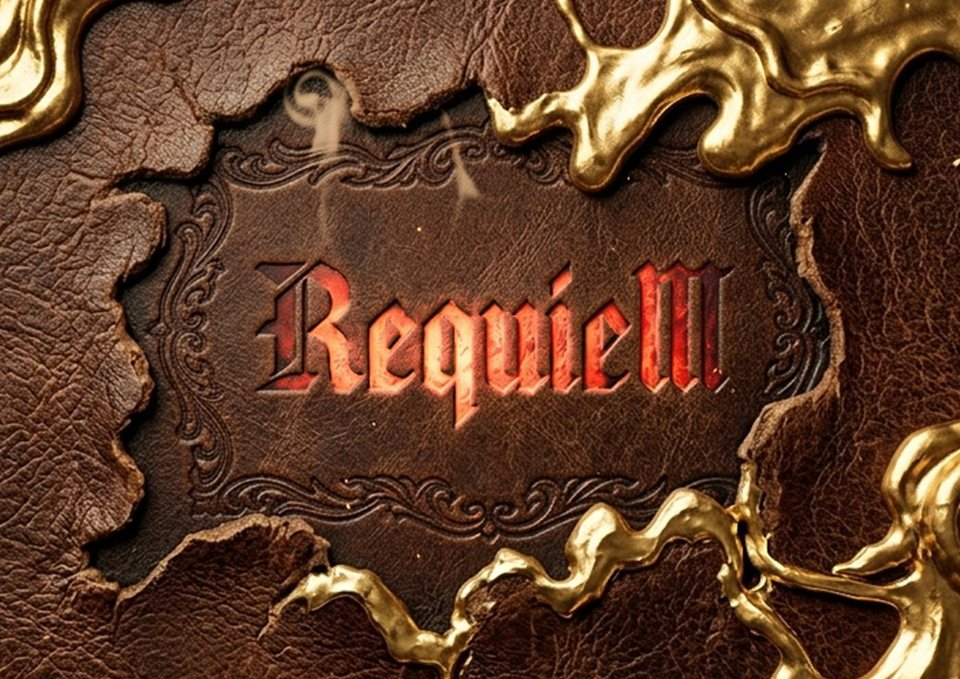
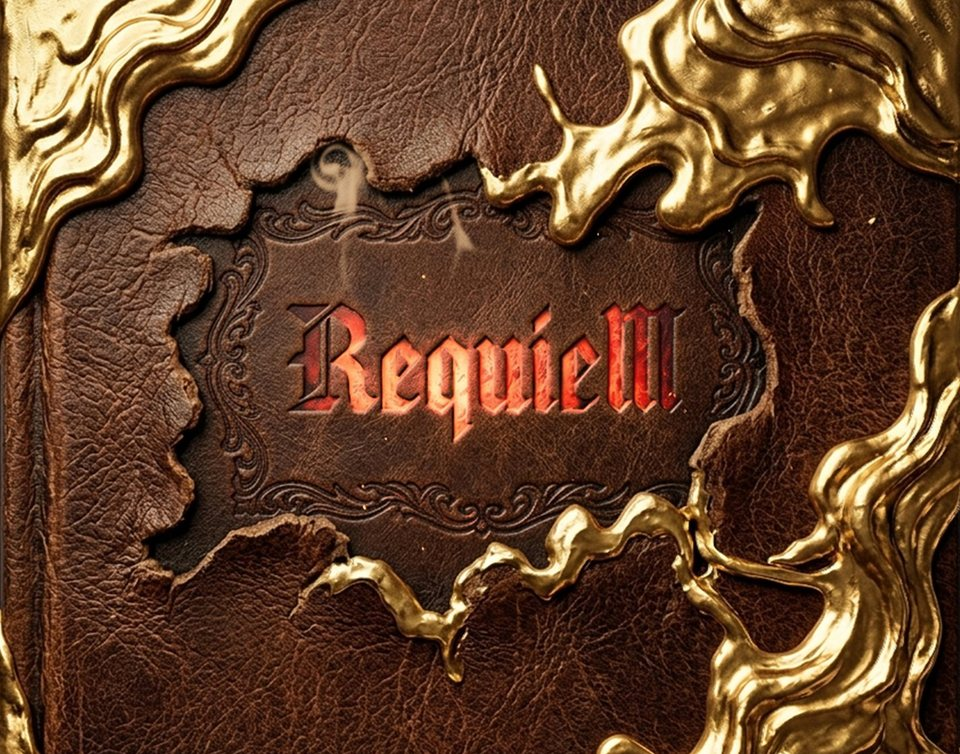
Update headlines, widen cover crop
Claude-Session: https://claude.ai/code/session_0125UGnamC7oMJDsrMrMC8zL

diff --git a/assets/style.css b/assets/style.css
@@ -1,3 +1,4 @@
 :root{--ink:#202521;--muted:#777c73;--paper:#f4f1e9;--gold:#ac9466;--line:#dcdcd0;--red:#853b36}*{box-sizing:border-box}body{margin:0;background:var(--paper);color:var(--ink);font-family:'Helvetica Neue','Hiragino Kaku Gothic ProN','Yu Gothic',Meiryo,sans-serif;-webkit-font-smoothing:antialiased}button,a{-webkit-tap-highlight-color:transparent}button{font:inherit;cursor:pointer}button:focus-visible,a:focus-visible,summary:focus-visible{outline:3px solid #aa773f;outline-offset:5px}button:disabled{cursor:default;opacity:.38}a{color:inherit}.layout{display:grid;grid-template-columns:40% 60%;min-height:100svh}.story{background:radial-gradient(120% 80% at 50% 35%,#2a1c15 0%,#150f0c 70%);color:#ece9dc;padding:45px 50px 28px;display:flex;flex-direction:column;position:relative;overflow:hidden}.story:before{content:'';position:absolute;inset:14px;border:1px solid #c9a24f33;pointer-events:none}.brand{font-family:Georgia,'Times New Roman',serif;font-size:29px;letter-spacing:5px;text-decoration:none;z-index:1;width:max-content}.brand span{color:#c9a24f;letter-spacing:1px}.brand small{display:block;font:8px Arial,sans-serif;letter-spacing:4px;margin-top:9px;color:#a7aaa1}.story-center{margin:auto 0;padding:32px 0 46px}.cover-title{width:calc(100% + 60px);max-width:520px;margin:-10px -30px 26px;position:relative}.cover-title img{display:block;width:100%;height:auto;-webkit-mask-image:radial-gradient(ellipse closest-side at 50% 47%,#000 22%,rgba(0,0,0,.72) 48%,rgba(0,0,0,.3) 74%,transparent 100%);mask-image:radial-gradient(ellipse closest-side at 50% 47%,#000 22%,rgba(0,0,0,.72) 48%,rgba(0,0,0,.3) 74%,transparent 100%);filter:saturate(1.05) contrast(1.05)}.cover-title:after{content:'';position:absolute;left:30%;right:30%;top:33%;bottom:45%;background:radial-gradient(closest-side,#ff5a2a33,transparent);mix-blend-mode:screen;pointer-events:none;animation:ember 4s ease-in-out infinite}@keyframes ember{0%,100%{opacity:.5}50%{opacity:1}}.overline{font-size:9px;letter-spacing:3px;color:#c9a24f;margin:0 0 23px}h1{font-family:'Yu Mincho','Hiragino Mincho ProN',serif;font-weight:400;font-size:clamp(28px,3vw,43px);line-height:1.8;letter-spacing:.09em;margin:0}.story-description{font-size:12px;line-height:2.2;letter-spacing:.12em;color:#a4aaa0;margin:22px 0 0}.story-bottom{display:flex;justify-content:space-between;color:#8b9186;font-size:8px;letter-spacing:1.3px;gap:10px}main{padding:38px clamp(28px,5.4vw,88px) 23px;display:flex;flex-direction:column;min-width:0}.topbar{display:flex;align-items:center;justify-content:space-between;border-bottom:1px solid var(--line);padding-bottom:19px;font-size:10px;letter-spacing:2px;color:#72796e}.edition{font-size:10px;letter-spacing:1px;border:1px solid #c8ccbe;border-radius:2px;padding:4px 8px}#app{width:100%;max-width:650px;margin:auto;outline:none;padding:48px 0}footer{display:flex;justify-content:space-between;border-top:1px solid var(--line);padding-top:18px;gap:10px;font-size:9px;color:#818579;letter-spacing:.08em}footer span:first-child{font-family:Georgia;letter-spacing:2px}.eyebrow{color:var(--red);font-size:10px;font-weight:600;letter-spacing:2px;margin:0 0 22px}.intro h2,.result h2{font-family:'Yu Mincho','Hiragino Mincho ProN',serif;font-size:clamp(30px,3.1vw,42px);font-weight:400;letter-spacing:.04em;line-height:1.7;margin:0 0 22px}.lead{font-size:13px;line-height:2.15;color:#666e62;margin-bottom:30px}.facts{display:flex;border-top:1px solid var(--line);border-bottom:1px solid var(--line);padding:19px 0;margin:0 0 32px;gap:0}.fact{padding:0 26px;border-right:1px solid var(--line)}.fact:first-child{padding-left:0}.fact:last-child{border:0}.fact strong{font:25px Georgia;margin-right:5px}.fact span{font-size:11px}.fact small{display:block;color:var(--muted);font-size:9px;margin-top:6px;letter-spacing:.08em}.primary{background:var(--ink);color:#f6f2e8;border:1px solid var(--ink);padding:18px 22px;width:100%;display:flex;align-items:center;justify-content:space-between;font-size:13px;letter-spacing:.08em;min-height:56px;transition:background .2s}.primary:hover:not(:disabled){background:#3a4639}.arrow{font-size:20px;font-weight:300;line-height:1}.note{font-size:10px;line-height:1.9;color:#7c8177;margin:18px 0 0}.progress-meta{display:flex;justify-content:space-between;font-size:10px;letter-spacing:2px;color:#6e776a;margin-bottom:11px}.progress-meta strong{font-family:Georgia;font-size:18px;font-weight:400;color:var(--ink)}.progress{display:flex;gap:5px;margin-bottom:32px}.progress i{display:block;flex:1;height:2px;background:#d8dccf}.progress i.done{background:var(--gold)}.question h2{font-family:'Yu Mincho','Hiragino Mincho ProN',serif;font-size:clamp(24px,2.4vw,31px);line-height:1.75;font-weight:400;margin:0 0 10px;letter-spacing:.02em;white-space:pre-line}.hint{font-size:11px;color:#7a8175;margin:0 0 26px;line-height:1.8}.options{display:grid;gap:10px;border:0;padding:0;margin:0}.option{display:flex;align-items:center;text-align:left;width:100%;gap:15px;background:transparent;border:1px solid #d2d5c8;padding:17px 18px;min-height:66px;transition:background .15s,border-color .15s;color:var(--ink);font-size:12px;line-height:1.8}.option:hover{background:#ecece1;border-color:#a8b29e}.option[aria-pressed=true]{border-color:#61755a;background:#e8ecdf}.option .letter{font:13px Georgia;color:#87917e}.option .check{margin-left:auto;flex-shrink:0;width:17px;height:17px;border:1px solid #b6bcac;border-radius:50%}.option[aria-pressed=true] .check{background:#61755a;border-color:#61755a;position:relative}.option[aria-pressed=true] .check:after{content:'';position:absolute;width:7px;height:3px;border-bottom:1px solid white;border-left:1px solid white;transform:rotate(-45deg);left:4px;top:5px}.navigation{display:grid;grid-template-columns:90px 1fr;gap:22px;margin-top:28px;align-items:center}.back{background:none;border:0;color:#737b6e;text-align:left;font-size:11px;padding:14px 0}.navigation .primary{padding:15px 20px;min-height:52px}.result .eyebrow{margin-bottom:12px}.result h2{font-size:27px;margin-bottom:23px}.character-card{border:1px solid #b4b799;position:relative;padding:30px 28px;background:linear-gradient(135deg,#eeeee1,#f9f6ec)}.character-card:before{content:'✦';font-size:32px;color:#ad9869;position:absolute;right:24px;top:23px}.character-number{font:10px Georgia;letter-spacing:2px;color:#86866e;margin:0 0 22px}.character-word{font-family:'Yu Mincho',serif;font-size:14px;color:#73795f;letter-spacing:.12em;margin:0 0 9px}.character-name{font-family:'Yu Mincho',serif;font-size:clamp(26px,3vw,38px);font-weight:400;margin:0 0 6px;line-height:1.6}.character-latin{font-size:9px;color:#8d8c72;letter-spacing:3px;margin:0 0 20px}.tags{display:flex;flex-wrap:wrap;gap:6px;margin-bottom:18px}.tag{font-size:10px;border:1px solid #cdd0bb;padding:5px 10px;color:#6b745e}.description{font-size:12px;line-height:2;margin:0}.reasons{margin:25px 0}.reasons h3{font-size:11px;letter-spacing:.1em;font-weight:500;color:#6c755f;margin:0 0 12px}.reasons p{font-size:11px;line-height:2;margin:6px 0;padding-left:15px;border-left:2px solid #b6bc9d}.secondary{border:1px solid #bbc1b1;background:transparent;font-size:11px;padding:14px 20px;width:100%;color:#59634f;margin-top:10px;min-height:46px}.secondary:hover{background:#e7eadd}.copy-status{font-size:11px;line-height:1.8;color:#67735b;margin:10px 0 0;min-height:20px}.other{margin:24px 0;border-top:1px solid var(--line);border-bottom:1px solid var(--line);padding:16px 0}.other summary{font-size:11px;color:#67715b;cursor:pointer}.other p{font-size:12px;margin:16px 0 0;line-height:2}.other p small{display:block;font-size:10px;color:#7b8171}.tie{font-size:11px;line-height:2;color:#666f5e;background:#e9ecdf;padding:15px;margin:16px 0}.copy-fallback{width:100%;background:#fffaf0;border:1px solid var(--line);font-size:12px;line-height:1.8;padding:12px;margin-top:10px;color:var(--ink);resize:vertical}.sr-only{position:absolute;width:1px;height:1px;padding:0;margin:-1px;overflow:hidden;clip:rect(0,0,0,0);white-space:nowrap;border:0}@media(min-width:1500px){.story{padding-left:70px;padding-right:70px}main{padding-left:100px;padding-right:100px}}@media(max-width:800px){.layout{grid-template-columns:34% 66%}.story{padding:32px 25px}.brand{font-size:23px;letter-spacing:3px}.cover-title{max-width:100%}h1{font-size:25px}.story-bottom{font-size:6px;flex-direction:column}.overline{font-size:7px;letter-spacing:1.5px}main{padding:30px 30px 22px}.fact{padding:0 18px}}@media(max-width:600px){.layout{display:block}.story{padding:25px 26px 27px}.story:before{inset:9px}.brand{font-size:22px;letter-spacing:4px}.brand small{font-size:6px;letter-spacing:3px;margin-top:6px}.story-center{padding:0;margin:24px 0 0;position:relative}.cover-title{width:calc(100% + 40px);max-width:400px;margin:-14px -20px 4px}.story-center .overline{font-size:7px;margin-bottom:12px;letter-spacing:2px}h1{font-size:25px;line-height:1.7;letter-spacing:.07em}h1 br:nth-child(2){display:none}.story-description{font-size:11px;line-height:2;margin-top:12px}.story-bottom{display:none}main{padding:22px 25px;min-height:calc(100svh - 220px)}.topbar{font-size:8px;padding-bottom:13px}.edition{font-size:8px}#app{padding:32px 0;max-width:500px}.intro h2{font-size:31px}.lead{font-size:12px}.facts{margin-bottom:26px}.fact{padding:0 23px}.fact strong{font-size:24px}.fact small{font-size:8px}.question h2{font-size:25px}.progress{margin-bottom:24px}.option{padding:14px 15px;min-height:64px;font-size:12px;gap:12px}.navigation{margin-top:23px;gap:16px}.character-card{padding:27px 22px}.character-name{font-size:30px}footer{font-size:8px}.result h2{font-size:25px}}@media(prefers-reduced-motion:no-preference){#app>section{animation:appear .25s ease-out}@keyframes appear{from{opacity:0;transform:translateY(6px)}to{opacity:1;transform:translateY(0)}}}
 .link-button{text-decoration:none}.field-label{display:block;font-size:11px;color:#69735e;margin:0 0 10px;line-height:1.8}.text-input{width:100%;font:inherit;font-size:13px;background:#fcfaf3;color:var(--ink);border:1px solid #c9d0bf;padding:15px 16px;margin-bottom:18px;border-radius:0;min-height:48px}.text-input:focus{outline:2px solid #9aa584;outline-offset:2px}.error{font-size:12px;line-height:1.9;color:#8b3833;background:#f6e7e1;border-left:2px solid #a0564c;padding:12px 15px}.submitted-mark{font:24px Georgia;color:#748564;border:1px solid #a6b293;width:57px;height:57px;border-radius:50%;display:grid;place-items:center;margin-bottom:24px}.question:focus{outline:none}.gm-heading{font-family:'Yu Mincho','Hiragino Mincho ProN',serif;font-size:32px;font-weight:400;line-height:1.8;margin:0 0 22px}.gm-home .lead{font-size:12px}.room-list{margin-top:35px}.room-list h3,.gm-settings h3,.results-header h3{font-size:12px;font-weight:500;letter-spacing:.05em}.room-item{display:flex;justify-content:space-between;align-items:center;gap:15px;width:100%;padding:20px 0;text-align:left;background:none;border:0;border-bottom:1px solid var(--line);color:var(--ink);font-size:13px}.room-item small{font-size:10px;color:#758068;flex-shrink:0}.gm-title-row{display:flex;justify-content:space-between;gap:20px;align-items:center}.gm-title-row h2{font-size:28px;word-break:break-word}.gm-title-row .eyebrow{margin:15px 0 6px}.count{font:36px Georgia;color:#68735b;white-space:nowrap}.count small{font-size:14px;color:#8d947f}.share-box{background:#e9ecdf;border:1px solid #d2d9c5;padding:20px;margin-bottom:25px}.share-box .text-input{font-size:11px;margin-bottom:0}.share-box .secondary{margin-top:9px}.share-box .note{margin-top:12px}.results-header{display:flex;align-items:center;justify-content:space-between;gap:15px}.empty-results{border-top:1px solid var(--line);border-bottom:1px solid var(--line);padding:37px 15px;text-align:center;color:#7b836f;font-size:14px}.empty-results small{display:block;margin-top:12px;font-size:10px}.animal-row{padding:19px 0;border-top:1px solid var(--line);display:flex;align-items:center;justify-content:space-between;gap:16px}.animal-row:last-child{border-bottom:1px solid var(--line)}.player-name{font-size:12px;word-break:break-word}.animal-pair{display:flex;gap:9px;flex-shrink:0}.animal{font-family:'Yu Mincho',serif;font-size:18px;display:grid;place-items:center;min-width:92px;background:#e8ecdf;border:1px solid #d0d7c4;padding:14px 10px;white-space:nowrap}.update-status{font-size:9px;margin:10px 0 25px;text-align:right}.gm-settings{margin-top:28px;border-top:1px solid var(--line);padding-top:20px}.gm-settings summary{font-size:11px;color:#748066;cursor:pointer}.gm-settings h3{margin:25px 0 12px}.gm-settings .note{margin-top:12px}.rules-scroll{overflow-x:auto}.rules-table{width:100%;border-collapse:collapse;font-size:10px;margin:18px 0;white-space:nowrap}.rules-table th{font-weight:400;text-align:left;padding:12px 8px;border-bottom:1px solid var(--line);color:#67725d}.rules-table td{text-align:center;border-bottom:1px solid var(--line);padding:10px}.rules-table input,.toggle-line input{accent-color:#61755a;width:16px;height:16px;cursor:pointer}.toggle-line{font-size:11px;display:flex;align-items:center;gap:10px;line-height:1.8;margin:15px 0}.gm-room>.back{margin-bottom:8px}.gm-room .copy-status{margin-top:15px}@media(max-width:600px){.animal{min-width:73px;font-size:16px;padding:12px 8px}.animal-pair{gap:6px}.animal-row{gap:12px}.share-box{padding:16px}.gm-heading{font-size:29px}.rules-table th{padding:12px 5px}.rules-table td{padding:10px 5px}.progress-meta{font-size:8px;letter-spacing:1px}.count{font-size:30px}}
 @media(prefers-reduced-motion:reduce){.cover-title:after{animation:none}}
+.intro h2 br.sp{display:none}@media(max-width:600px){.intro h2 br.sp{display:inline}}

diff --git a/assets/app.js b/assets/app.js
@@ -32,8 +32,8 @@
 
   // ── 共通レイアウト（shell.tsx） ──
   document.body.insertAdjacentHTML('afterbegin',
-    '<div class="layout"><aside class="story"><a class="brand" href="./">REQUIE<span>Ⅲ</span><small>MURDER MYSTERY</small></a><div class="story-center"><div class="cover-title" aria-hidden="true"><img src="assets/cover-title.jpg" alt="" width="960" height="679"/></div>' +
-    '<p class="overline">' + (gm ? 'BEHIND THE STORY' : 'FIND YOUR CHARACTER') + '</p><h1>' + (gm ? '七人の選択を、<br/>物語の始まりへ。' : 'これからあなたが<br/>被る仮面は？') + '</h1><p class="story-description">' + (gm ? '七人の人物。七つの視点。<br/>物語を始める、その前に。' : '本当のあなたを知る10の質問<br/>おすすめの仮面を選びます') + '</p></div><div class="story-bottom"><span>REQUIEM · CHARACTER CASTING</span><span>01 — 07</span></div></aside>' +
+    '<div class="layout"><aside class="story"><a class="brand" href="./">REQUIE<span>Ⅲ</span><small>MURDER MYSTERY</small></a><div class="story-center"><div class="cover-title" aria-hidden="true"><img src="assets/cover-title.jpg" alt="" width="960" height="754"/></div>' +
+    '<p class="overline">' + (gm ? 'BEHIND THE STORY' : 'FIND YOUR CHARACTER') + '</p><h1>' + (gm ? '七人の選択を、<br/>物語の始まりへ。' : 'あなたが着けるべき<br/>仮面は…') + '</h1><p class="story-description">' + (gm ? '七人の人物。七つの視点。<br/>物語を始める、その前に。' : '本当のあなたを知るための<br/>10の質問') + '</p></div><div class="story-bottom"><span>REQUIEM · CHARACTER CASTING</span><span>01 — 07</span></div></aside>' +
     '<main><header class="topbar"><span>' + (gm ? 'GAME MASTER' : 'CHARACTER MATCH') + '</span><span class="edition">試作版</span></header><div id="app"></div><footer><span>REQUIEⅢ</span><span>結果はGMにだけ表示されます</span></footer></main></div>');
   var app = $('app');
 
@@ -43,7 +43,7 @@
 
   // ── トップ（page.tsx） ──
   function home() {
-    app.innerHTML = '<section class="intro"><p class="eyebrow">CASTING YOUR STORY</p><h2>この物語で、<br/>あなたは誰になる。</h2><p class="lead">10の質問から、おすすめの役を見つけます。<br/>回答後、結果はGMだけが確認できます。</p><div class="facts"><div class="fact"><strong>10</strong><span>問</span><small>QUESTIONS</small></div><div class="fact"><strong>約3</strong><span>分</span><small>TIME</small></div><div class="fact"><strong>7</strong><span>人</span><small>PLAYERS</small></div></div><p class="lead">参加する方は、GMから届いた<br/>専用の回答用URLを開いてください。</p><a class="primary link-button" href="gm.html">GMとして卓を作成する<span aria-hidden="true">→</span></a><p class="note">プレイヤー画面には、おすすめの役や判定基準は表示されません。</p></section>';
+    app.innerHTML = '<section class="intro"><p class="eyebrow">CASTING YOUR STORY</p><h2>ここから<br/>もう一つのあなたが<br class="sp"/>決まります</h2><p class="lead">10の質問から、おすすめの役を見つけます。<br/>回答後、結果はGMだけが確認できます。</p><div class="facts"><div class="fact"><strong>10</strong><span>問</span><small>QUESTIONS</small></div><div class="fact"><strong>約3</strong><span>分</span><small>TIME</small></div><div class="fact"><strong>7</strong><span>人</span><small>PLAYERS</small></div></div><p class="lead">参加する方は、GMから届いた<br/>専用の回答用URLを開いてください。</p><a class="primary link-button" href="gm.html">GMとして卓を作成する<span aria-hidden="true">→</span></a><p class="note">プレイヤー画面には、おすすめの役や判定基準は表示されません。</p></section>';
   }
 
   // ── 参加者（player.tsx） ──
@@ -72,7 +72,7 @@
       if (stage === 'done') { app.innerHTML = '<section class="intro"><p class="eyebrow">THANK YOU</p><div class="submitted-mark" aria-hidden="true">✓</div><h2>回答を送りました。</h2><p class="lead">' + esc(nickname) + 'さん、回答はGMに届きました。<br/>この画面を閉じて、GMからの案内をお待ちください。</p><p class="note">診断結果はGMだけが確認できます。</p></section>'; return; }
       if (!room.open) { app.innerHTML = '<section class="intro"><p class="eyebrow">RECEPTION CLOSED</p><h2>受付は終了しました。</h2><p class="lead">GMに確認してください。</p></section>'; return; }
       if (stage === 'intro') {
-        app.innerHTML = '<section class="intro"><p class="eyebrow">' + esc(room.title) + '</p><h2>この物語で、<br/>あなたは誰になる。</h2><p class="lead">考え方と、演じてみたい役について。<br/>10の質問から、あなたに合う役を見つけます。</p><div class="facts"><div class="fact"><strong>10</strong><span>問</span><small>QUESTIONS</small></div><div class="fact"><strong>約3</strong><span>分</span><small>TIME</small></div></div><form id="start" autocomplete="off"><label class="field-label" for="nickname">GMに伝わる呼び名</label><input id="nickname" class="text-input" maxlength="30" required placeholder="ニックネームでOK" autocomplete="off"/><button class="primary" type="submit" id="startBtn" disabled>診断をはじめる<span aria-hidden="true">→</span></button></form><p class="note">回答と呼び名は、この卓のGMが確認するために保存されます。<br/>結果はプレイヤーには表示されません。</p></section>';
+        app.innerHTML = '<section class="intro"><p class="eyebrow">' + esc(room.title) + '</p><h2>ここから<br/>もう一つのあなたが<br class="sp"/>決まります</h2><p class="lead">考え方と、演じてみたい役について。<br/>10の質問から、あなたに合う役を見つけます。</p><div class="facts"><div class="fact"><strong>10</strong><span>問</span><small>QUESTIONS</small></div><div class="fact"><strong>約3</strong><span>分</span><small>TIME</small></div></div><form id="start" autocomplete="off"><label class="field-label" for="nickname">GMに伝わる呼び名</label><input id="nickname" class="text-input" maxlength="30" required placeholder="ニックネームでOK" autocomplete="off"/><button class="primary" type="submit" id="startBtn" disabled>診断をはじめる<span aria-hidden="true">→</span></button></form><p class="note">回答と呼び名は、この卓のGMが確認するために保存されます。<br/>結果はプレイヤーには表示されません。</p></section>';
         var input = $('nickname'); input.value = nickname;
         $('startBtn').disabled = !nickname.trim();
         input.addEventListener('input', function () { nickname = input.value; $('startBtn').disabled = !nickname.trim(); });
